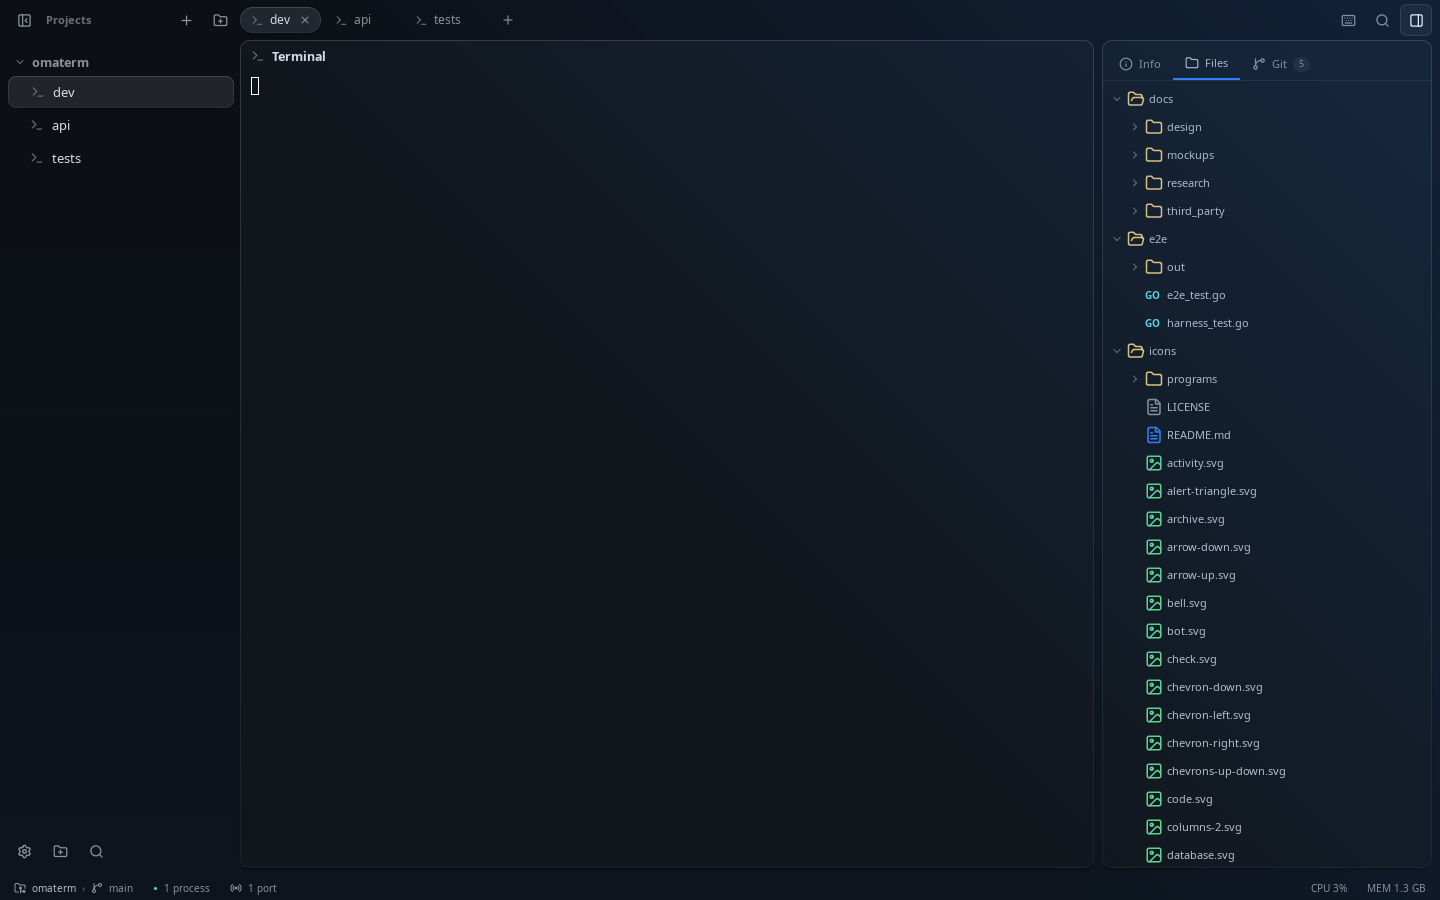
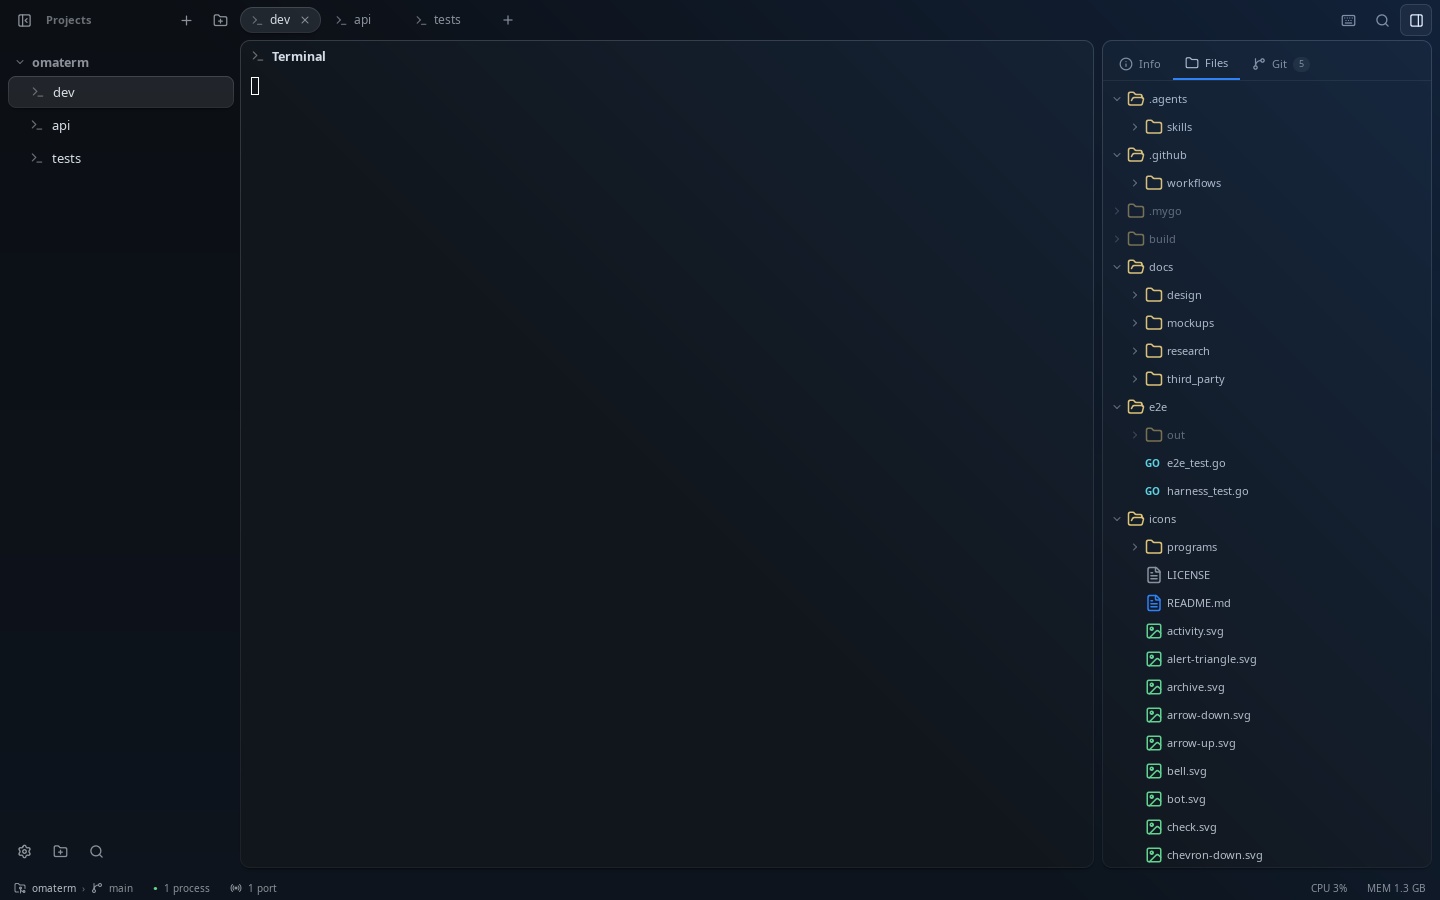
The Files tab shows ignored files, dimmed as in VS Code
Dotfiles and whatever .gitignore names were left out, or shown at full
colour when the hardcoded list missed them. Now everything shows but .git,
and what git ignores is dimmed and read only as it opens.

Changed region(s): [[0.7812, 0.1244, 0.875, 0.9644]]

diff --git a/state.go b/state.go
@@ -473,6 +473,11 @@ type fileNode struct {
 	Status   string
 	Children []*fileNode
 	Action   string
+	// Muted is what git ignores, shown dimmed as VS Code does.
+	Muted bool
+	// Loaded tells a folder's children were read: a muted one's are read
+	// as it opens, since it may be node_modules.
+	Loaded bool
 }
 
 type project struct {
@@ -999,6 +1004,9 @@ func (a *appState) rebuildFileTree() {
 			if o, ok := open[n.Path]; ok && n.Dir && n.Path != "" {
 				n.Open = o
 			}
+			if n.Open && !n.Loaded {
+				loadFileNode(n)
+			}
 			for _, c := range n.Children {
 				apply(c)
 			}
@@ -1008,16 +1016,9 @@ func (a *appState) rebuildFileTree() {
 	if a.workspace == "" {
 		return
 	}
-	entries, err := os.ReadDir(a.workspace)
-	if err != nil {
-		return
-	}
-	for _, e := range foldersFirst(entries) {
-		n := buildFileNode(a.workspace, e.Name(), e.IsDir(), 0)
-		if n != nil {
-			root.Children = append(root.Children, n)
-		}
-	}
+	root.Path = a.workspace
+	root.Loaded = true
+	fileScan{root: a.workspace, ignored: service.Ignored(a.workspace)}.children(root, -1)
 }
 
 // foldersFirst orders a folder's entries as file managers do: its
@@ -1035,36 +1036,52 @@ func foldersFirst(entries []os.DirEntry) []os.DirEntry {
 	return entries
 }
 
-func buildFileNode(parent, name string, isDir bool, depth int) *fileNode {
+// fileScan reads the workspace for the file tree.
+type fileScan struct {
+	root    string
+	ignored map[string]bool // what git ignores, as slash paths under root
+}
+
+func (s fileScan) node(parent, name string, isDir bool, depth int, muted bool) *fileNode {
 	if depth > 3 {
 		return nil
 	}
-	// Skip hidden files/dirs (e.g. .DS_Store, .bashrc).
-	if len(name) > 0 && name[0] == '.' {
+	path := filepath.Join(parent, name)
+	if isDir && (name == ".git" || service.Protected(path)) {
 		return nil
 	}
-	if isDir {
-		if service.Protected(filepath.Join(parent, name)) {
-			return nil
-		}
-		switch name {
-		case "node_modules", ".mygo", "build", "dist", ".cache":
-			return nil
-		}
+	if !muted {
+		rel, _ := filepath.Rel(s.root, path)
+		muted = name == "node_modules" || s.ignored[filepath.ToSlash(rel)]
 	}
-	n := &fileNode{Name: name, Path: filepath.Join(parent, name), Dir: isDir, Open: depth < 1}
+	n := &fileNode{Name: name, Path: path, Dir: isDir, Open: depth < 1 && !muted, Muted: muted}
 	if !isDir {
 		n.Action = "editor"
 		return n
 	}
-	entries, err := os.ReadDir(filepath.Join(parent, name))
+	if !muted {
+		n.Loaded = true
+		s.children(n, depth)
+	}
+	return n
+}
+
+// children reads a folder's entries into it, its folders first.
+func (s fileScan) children(n *fileNode, depth int) {
+	entries, err := os.ReadDir(n.Path)
 	if err != nil {
-		return n
+		return
 	}
 	for _, e := range foldersFirst(entries) {
-		if ch := buildFileNode(filepath.Join(parent, name), e.Name(), e.IsDir(), depth+1); ch != nil {
+		if ch := s.node(n.Path, e.Name(), e.IsDir(), depth+1, n.Muted); ch != nil {
 			n.Children = append(n.Children, ch)
 		}
 	}
-	return n
+}
+
+// loadFileNode reads a muted folder's children as it opens, one level:
+// its own folders wait for theirs.
+func loadFileNode(n *fileNode) {
+	n.Loaded = true
+	fileScan{}.children(n, 0)
 }

diff --git a/polish_test.go b/polish_test.go
@@ -6,6 +6,7 @@ import (
 	"image/color"
 	"image/png"
 	"os"
+	"os/exec"
 	"path/filepath"
 	"strings"
 	"testing"
@@ -776,6 +777,67 @@ func TestFoldersFirst(t *testing.T) {
 		t.Errorf("in b, %v: want z before x.txt", b.Children)
 	}
 
+}
+
+// Dotfiles are listed, and what git ignores too, muted, as VS Code does;
+// .git is not, and a muted folder is read only as it opens.
+func TestFilesShowIgnoredMuted(t *testing.T) {
+	if _, err := exec.LookPath("git"); err != nil {
+		t.Skip("no git")
+	}
+	write := func(root, rel string) {
+		p := filepath.Join(root, rel)
+		os.MkdirAll(filepath.Dir(p), 0o755)
+		os.WriteFile(p, []byte("x\n"), 0o644)
+	}
+	tree := func(root string) map[string]*fileNode {
+		a := newApp()
+		a.workspace = root
+		a.rebuildFileTree()
+		nodes := map[string]*fileNode{}
+		for _, n := range a.fileTree.Children {
+			nodes[n.Name] = n
+		}
+		return nodes
+	}
+	for _, repo := range []bool{true, false} {
+		root := t.TempDir()
+		if repo {
+			if out, err := exec.Command("git", "init", "-q", root).CombinedOutput(); err != nil {
+				t.Fatalf("git init: %v %s", err, out)
+			}
+		}
+		for _, rel := range []string{".gitignore", ".env", "out/x", "a.log", "main.go", "src/b.go", "node_modules/p/index.js"} {
+			write(root, rel)
+		}
+		os.WriteFile(filepath.Join(root, ".gitignore"), []byte("out/\n*.log\n.env\n"), 0o644)
+		nodes := tree(root)
+		if _, ok := nodes[".git"]; ok {
+			t.Errorf("repo %v: .git is listed", repo)
+		}
+		muted := map[string]bool{".gitignore": false, ".env": repo, "node_modules": true, "out": repo, "a.log": repo, "main.go": false, "src": false}
+		for name, want := range muted {
+			n := nodes[name]
+			if n == nil {
+				t.Errorf("repo %v: %s isn't listed", repo, name)
+				continue
+			}
+			if n.Muted != want {
+				t.Errorf("repo %v: %s muted %v, want %v", repo, name, n.Muted, want)
+			}
+		}
+		nm := nodes["node_modules"]
+		if nm == nil {
+			continue
+		}
+		if nm.Open || nm.Loaded || len(nm.Children) != 0 {
+			t.Errorf("repo %v: node_modules was read before it opened", repo)
+		}
+		loadFileNode(nm)
+		if len(nm.Children) != 1 || !nm.Children[0].Muted || nm.Children[0].Loaded {
+			t.Errorf("repo %v: opened node_modules has %v, want p, muted and unread", repo, nm.Children)
+		}
+	}
 }
 
 // A markdown preview has no caret, so no "Ln, Col"; its source does.

diff --git a/service/git.go b/service/git.go
@@ -130,6 +130,23 @@ func HeadSha(root string) string {
 	return s
 }
 
+// Ignored returns what git ignores under dir, as slash paths relative to
+// it; a folder ignored whole is one entry, not its files. Outside a repo,
+// or without git, it is nil.
+func Ignored(dir string) map[string]bool {
+	out, err := gitOut(dir, "ls-files", "--others", "--ignored", "--exclude-standard", "--directory", "-z")
+	if err != nil {
+		return nil
+	}
+	ignored := map[string]bool{}
+	for _, p := range strings.Split(out, "\x00") {
+		if p = strings.TrimSuffix(p, "/"); p != "" {
+			ignored[p] = true
+		}
+	}
+	return ignored
+}
+
 // AheadBehind returns commits ahead/behind the upstream.
 func AheadBehind(root string) (ahead, behind int) {
 	out, err := gitCmd(root, "rev-list", "--left-right", "--count", "HEAD...@{upstream}")

diff --git a/inspector.go b/inspector.go
@@ -298,7 +298,11 @@ func (a *appState) fileNodeView(c *ui.Context, n *fileNode, depth int) {
 		e.Background(pal.Hover)
 	}
 	e.Children(func() {
-		ui.Row(c).FillWidth().AlignItems(ui.Center).Gap(4).Children(func() {
+		row := ui.Row(c).FillWidth().AlignItems(ui.Center).Gap(4)
+		if n.Muted {
+			row.Opacity(0.5)
+		}
+		row.Children(func() {
 			// Disclosure column: always present, so folder and file
 			// badges line up on one grid at every depth.
 			if n.Dir {
@@ -329,6 +333,9 @@ func (a *appState) fileNodeView(c *ui.Context, n *fileNode, depth int) {
 	if e.Clicked() {
 		if n.Dir {
 			n.Open = !n.Open
+			if n.Open && !n.Loaded {
+				loadFileNode(n)
+			}
 		} else {
 			a.openEditor(a.nodePath(n))
 		}
